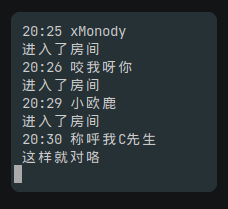
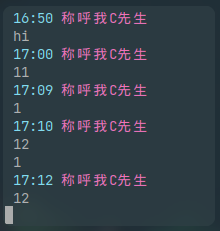
添加新的ui theme

diff --git a/ui/theme3/ui.go b/ui/theme3/ui.go
@@ -1,6 +1,6 @@
-// 极简主题
+// 聊天室主题
 
-package theme2
+package theme3
 
 import (
 	"bili/config"
@@ -15,17 +15,38 @@ var submitHistory = []string{}
 var submitHistoryIndex = 0
 
 func draw(app *tview.Application, roomId int64, busChan chan getter.DanmuMsg, roomInfoChan chan getter.RoomInfo) *tview.Grid {
-	chatGrid := tview.NewGrid().SetRows(0, 1).SetBorders(false)
+	grid := tview.NewGrid().SetRows(1, 1, 0, 1, 1).SetBorders(false)
+
+	roomInfoView := tview.NewTextView()
+	roomInfoView.SetBackgroundColor(tcell.ColorDefault)
+
+	delimiter1 := tview.NewTextView() // 分隔符
+	delimiter2 := tview.NewTextView() // 分隔符
+	delimiter1.SetBorder(false).SetBackgroundColor(tcell.ColorDefault)
+	delimiter2.SetBorder(false).SetBackgroundColor(tcell.ColorDefault)
+
+	_, _, width, _ := grid.GetRect()
+	str := ""
+	for i := 0; i < width; i++ {
+		str = str + "—"
+	}
+	delimiter1.SetText(str)
+	delimiter2.SetText(str)
+
 	messagesView := tview.NewTextView().SetDynamicColors(true)
 	messagesView.SetBackgroundColor(tcell.ColorDefault)
 
 	input := tview.NewInputField()
 	input.SetFormAttributes(0, tcell.ColorDefault, tcell.ColorDefault, tcell.ColorDefault, tcell.ColorDefault)
 
-	chatGrid.
-		AddItem(messagesView, 0, 0, 1, 1, 0, 0, false).
-		AddItem(input, 1, 0, 1, 1, 0, 0, true)
+	grid.
+		AddItem(roomInfoView, 0, 0, 1, 1, 0, 0, false).
+		AddItem(delimiter1, 1, 0, 1, 1, 0, 0, false).
+		AddItem(messagesView, 2, 0, 1, 1, 0, 0, false).
+		AddItem(delimiter2, 3, 0, 1, 1, 0, 0, false).
+		AddItem(input /*  */, 4, 0, 1, 1, 0, 0, true)
 
+	go roomInfoHandler(app, roomInfoView, roomInfoChan)
 	go danmuHandler(app, messagesView, busChan)
 
 	input.SetDoneFunc(func(key tcell.Key) {
@@ -42,7 +63,17 @@ func draw(app *tview.Application, roomId int64, busChan chan getter.DanmuMsg, ro
 		}
 	})
 
-	return chatGrid
+	grid.SetDrawFunc(func(screen tcell.Screen, x, y, width, height int) (int, int, int, int) {
+		str := ""
+		for i := 0; i < width; i++ {
+			str = str + "—"
+		}
+		delimiter1.SetText(str)
+		delimiter2.SetText(str)
+		return x, y, width, height
+	})
+
+	return grid
 }
 
 func Run(busChan chan getter.DanmuMsg, roomInfoChan chan getter.RoomInfo) {

diff --git a/ui/theme3/handler.go b/ui/theme3/handler.go
@@ -1,0 +1,41 @@
+package theme3
+
+import (
+	"bili/config"
+	"bili/getter"
+	"fmt"
+	"strings"
+
+	"github.com/rivo/tview"
+)
+
+func roomInfoHandler(app *tview.Application, roomInfoView *tview.TextView, roomInfoChan chan getter.RoomInfo) {
+	for roomInfo := range roomInfoChan {
+		roomInfoView.SetText(
+			fmt.Sprintf(" %d/%s %s/%s 👀: %d ❤: %d 🕒: %s", roomInfo.RoomId, roomInfo.Title, roomInfo.ParentAreaName, roomInfo.AreaName, roomInfo.Online, roomInfo.Attention, roomInfo.Time),
+		)
+		roomInfoView.ScrollToBeginning()
+		app.Draw()
+	}
+}
+
+var lastMsg = getter.DanmuMsg{}
+var lastLine = ""
+
+func danmuHandler(app *tview.Application, messages *tview.TextView, busChan chan getter.DanmuMsg) {
+	for msg := range busChan {
+		if strings.Trim(msg.Content, " ") == "" {
+			continue
+		}
+
+		viewStr := messages.GetText(false)
+		str := ""
+		if lastMsg.Type != msg.Type || lastMsg.Author != msg.Author || lastMsg.Time.Format("15:04") != msg.Time.Format("15:04") {
+			str += fmt.Sprintf(" [%s]%s [%s]%s[%s]", config.Config.TimeColor, msg.Time.Format("15:04"), config.Config.NameColor, msg.Author, config.Config.ContentColor) + "\n"
+		}
+		str += fmt.Sprintf(" %s", msg.Content) + "\n"
+		messages.SetText(viewStr + strings.TrimRight(str, "\n"))
+		lastMsg = msg
+		app.Draw()
+	}
+}

diff --git a/ui/ui.go b/ui/ui.go
@@ -5,6 +5,7 @@ import (
 	"bili/getter"
 	"bili/ui/theme1"
 	"bili/ui/theme2"
+	"bili/ui/theme3"
 	"os"
 	"os/exec"
 	"strings"
@@ -41,7 +42,9 @@ func Run(busChan chan getter.DanmuMsg, roomInfoChan chan getter.RoomInfo) {
 	case 1: // theme1
 		theme1.Run(busChan, roomInfoChan) // chat room
 	case 2: // theme2
-		theme2.Run(busChan, roomInfoChan) // simple
+		theme2.Run(busChan, roomInfoChan) // pure
+	case 3: // theme3
+		theme3.Run(busChan, roomInfoChan) // simple
 	default:
 		theme1.Run(busChan, roomInfoChan) // default theme1
 	}

diff --git a/README.md b/README.md
@@ -2,13 +2,17 @@
 
 [关联的bilibili介绍视频](https://www.bilibili.com/video/bv1gG411G7XG)
 
-风格1: 聊天室风格
+风格1: chatroom
 
 ![t1](./theme1.png)
 
-风格2: 极简风格
+风格2: pure
 
 ![t2](./theme2.png)
+
+风格3: simple
+
+![t3](./theme3.png)
 
 项目文件:
 
@@ -23,7 +27,7 @@
 ```plaintext
   Cookie = "cookie信息 从web端找一个请求头复制cookie"
   RoomId = 指定直播间roomId
-  Theme = 1 // 定义主题，1 聊天室风格，2 极简风格
+  Theme = 1
   TimeColor = "#FFFFFF"
   NameColor = "#FFFFFF"
   ContentColor = "#FFFFFF"
@@ -39,7 +43,7 @@ go run main.go -c config.toml -r 9527 -t 1
 
 快捷键:
 
-1. <esc> 退出
+1. \<esc> 退出
 2. <ctrl+c> 退出
 3. <ctrl+u> 清空输入内容
 4. <up> 上一个输入记录
